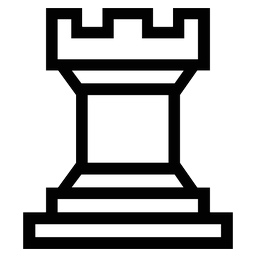
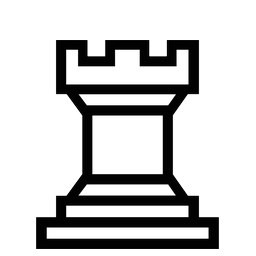
Give the pieces a size hierarchy, and widen the bishops
The icon set draws every piece to the same size, so on a board the
pawns stood as tall as the kings. RELATIVE_HEIGHT scales each kind
against the king (pawn 0.78, rook 0.87, knight 0.90, bishop 0.93,
queen 0.97), which restores the proportions a chess set normally has.

WIDTH_STRETCH widens the bishop by 18% without touching its height,
because the mitre read as spindly beside the rook and the pawn.

INK_DILATE, which thickens one piece's strokes before scaling, is kept
but empty. It was used to give the white king -- the sparsest piece in
the set -- the density of the queens, and that overshot: evening it up
made it the odd one out in the other direction. The king is now exactly
as drawn.

Changed region(s): [[0.0625, 0.0312, 0.9375, 1.0]]

diff --git a/tools/import_pieces.py b/tools/import_pieces.py
@@ -29,7 +29,7 @@ import argparse
 import os
 from collections import deque
 
-from PIL import Image
+from PIL import Image, ImageFilter
 
 # The default sheet: 6 columns by 2 rows, white row above black, K Q B N R P
 # across. Cells are named in reading order -- left to right, top to bottom.
@@ -49,6 +49,31 @@ FIT_W = 0.98
 FIT_H = 0.94
 # Gap left under the pieces so they do not sit flush against the square edge.
 BOTTOM_MARGIN = 0.03
+
+# Icon sets draw every piece to the same size, which on a board leaves the
+# pawns standing as tall as the kings. These restore the usual hierarchy, as a
+# fraction of the tallest piece.
+RELATIVE_HEIGHT = {
+    "p": 0.78,
+    "n": 0.90,
+    "b": 0.93,
+    "r": 0.87,
+    "q": 0.97,
+    "k": 1.00,
+}
+
+# Widen individual pieces. A bishop drawn as a narrow mitre reads as spindly
+# next to the rook and the pawn, and a little extra width fixes it without
+# touching its height.
+WIDTH_STRETCH = {
+    "b": 1.18,
+}
+
+# Thicken a piece's ink, in source pixels, before it is scaled down, for a
+# piece drawn lighter than its neighbours. Empty by default: thickening one
+# piece to match the others tends to overshoot and make it the odd one out in
+# the other direction, which is worse than the problem it solves.
+INK_DILATE = {}
 
 
 def strip_background(cell):
@@ -87,6 +112,28 @@ def strip_background(cell):
     return cell
 
 
+def thicken_ink(piece, amount):
+    """Grow the dark parts of a piece by `amount` pixels, in place of redrawing.
+
+    Only the ink spreads: transparent margins stay transparent, so the piece
+    gets bolder without gaining a background.
+    """
+    if amount <= 0:
+        return piece
+    rgb = piece.convert("RGB")
+    alpha = piece.split()[3]
+    # Dark and actually part of the piece.
+    ink = Image.eval(rgb.convert("L"), lambda v: 255 if v < 128 else 0)
+    ink = Image.composite(ink, Image.new("L", piece.size, 0), alpha.point(
+        lambda v: 255 if v > 128 else 0))
+    size = amount * 2 + 1
+    grown = ink.filter(ImageFilter.MaxFilter(size if size % 2 else size + 1))
+
+    out = piece.copy()
+    out.paste(Image.new("RGBA", piece.size, (0, 0, 0, 255)), (0, 0), grown)
+    return out
+
+
 def extract(sheet_path, grid, order):
     """Return {name: tightly-cropped RGBA image} for all twelve pieces."""
     cols, rows = grid
@@ -99,6 +146,8 @@ def extract(sheet_path, grid, order):
         col, row = index % cols, index // cols
         box = (int(col * cw), int(row * ch), int((col + 1) * cw), int((row + 1) * ch))
         cell = strip_background(sheet.crop(box))
+        # Thicken before cropping, so growing ink cannot run off the edge.
+        cell = thicken_ink(cell, INK_DILATE.get(name, 0))
         bbox = cell.getbbox()
         if bbox is None:
             raise SystemExit(
@@ -151,8 +200,11 @@ def main():
     baseline = args.size - int(args.size * BOTTOM_MARGIN)
 
     for name, piece in sorted(pieces.items()):
-        w = max(1, int(round(piece.width * scale)))
-        h = max(1, int(round(piece.height * scale)))
+        kind = name[1]
+        rel = RELATIVE_HEIGHT.get(kind, 1.0)
+        stretch = WIDTH_STRETCH.get(kind, 1.0)
+        w = max(1, int(round(piece.width * scale * rel * stretch)))
+        h = max(1, int(round(piece.height * scale * rel)))
         resized = piece.resize((w, h), Image.LANCZOS)
 
         canvas = Image.new("RGBA", (args.size, args.size), (0, 0, 0, 0))
